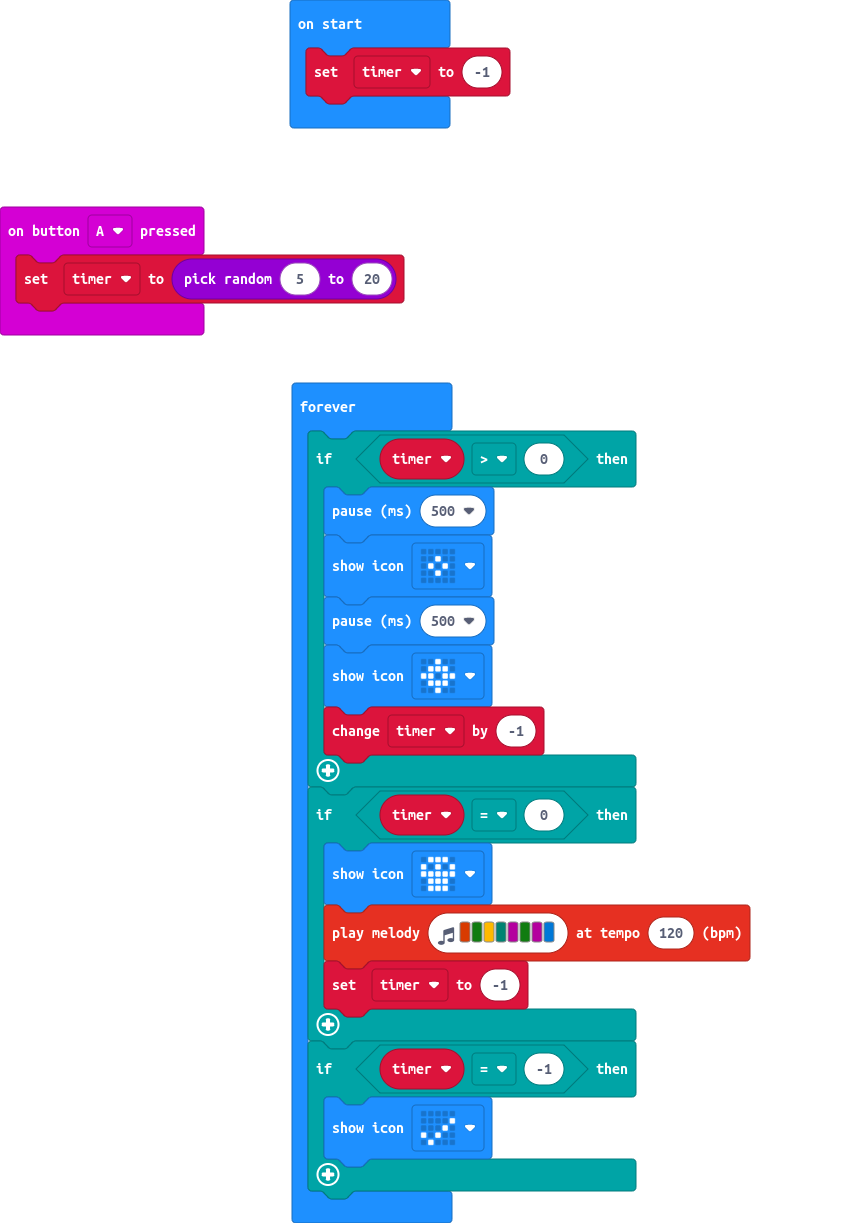
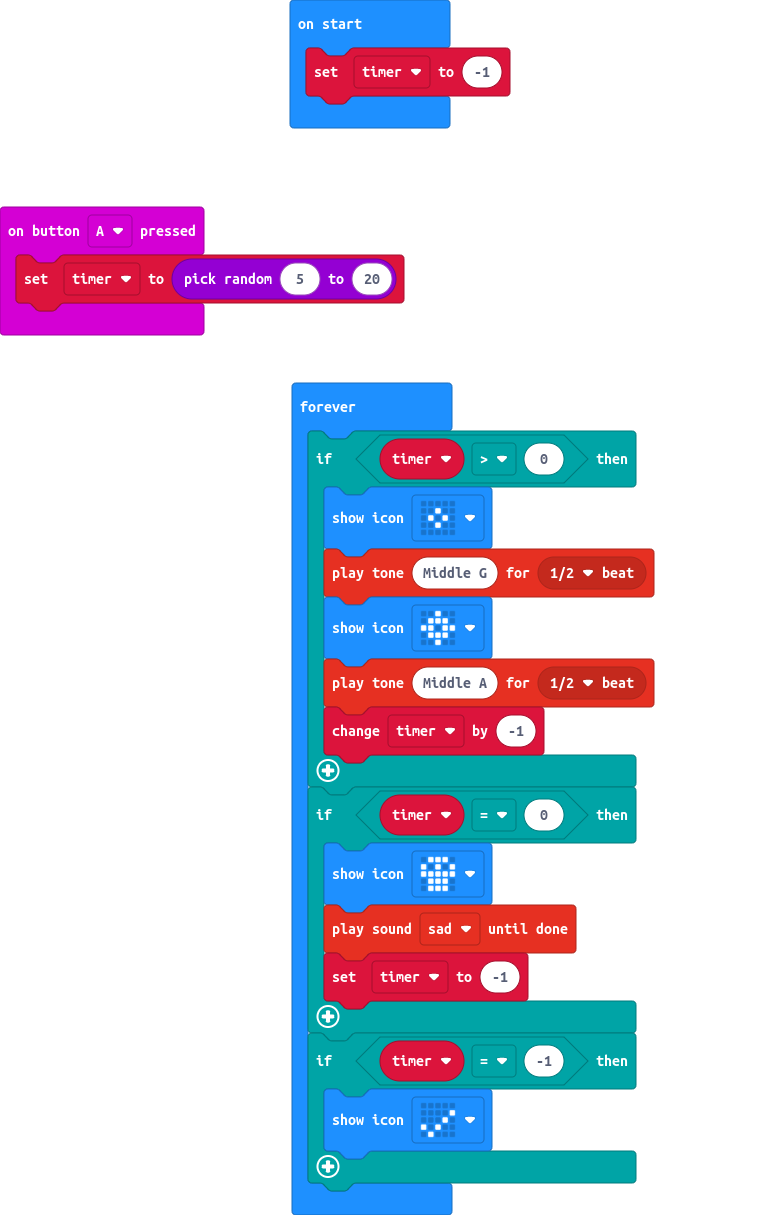
Update main.blocks, main.ts

diff --git a/main.ts b/main.ts
@@ -5,15 +5,15 @@ let timer = 0
 timer = -1
 basic.forever(function () {
     if (timer > 0) {
-        basic.pause(500)
         basic.showIcon(IconNames.SmallDiamond)
-        basic.pause(500)
+        music.playTone(392, music.beat(BeatFraction.Half))
         basic.showIcon(IconNames.Target)
+        music.playTone(440, music.beat(BeatFraction.Half))
         timer += -1
     }
     if (timer == 0) {
         basic.showIcon(IconNames.Skull)
-        music.playMelody("B G A F C G C E ", 120)
+        soundExpression.sad.playUntilDone()
         timer = -1
     }
     if (timer == -1) {
